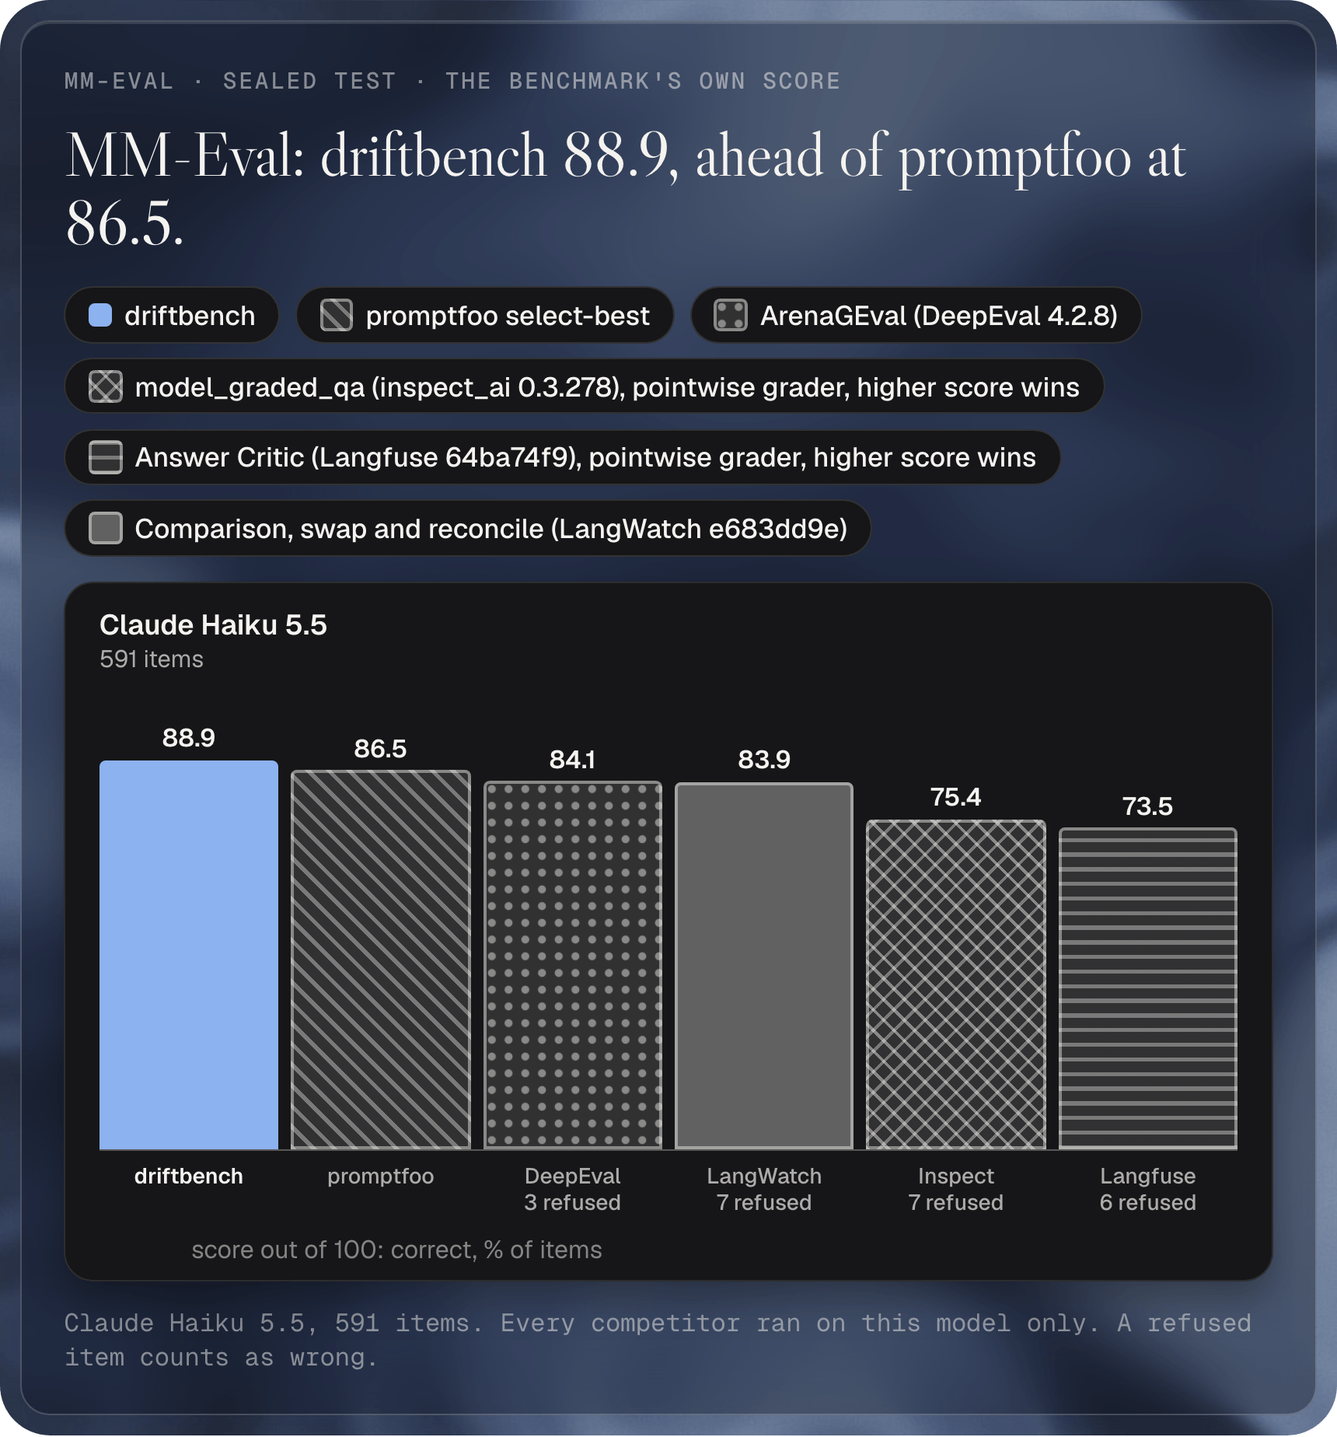
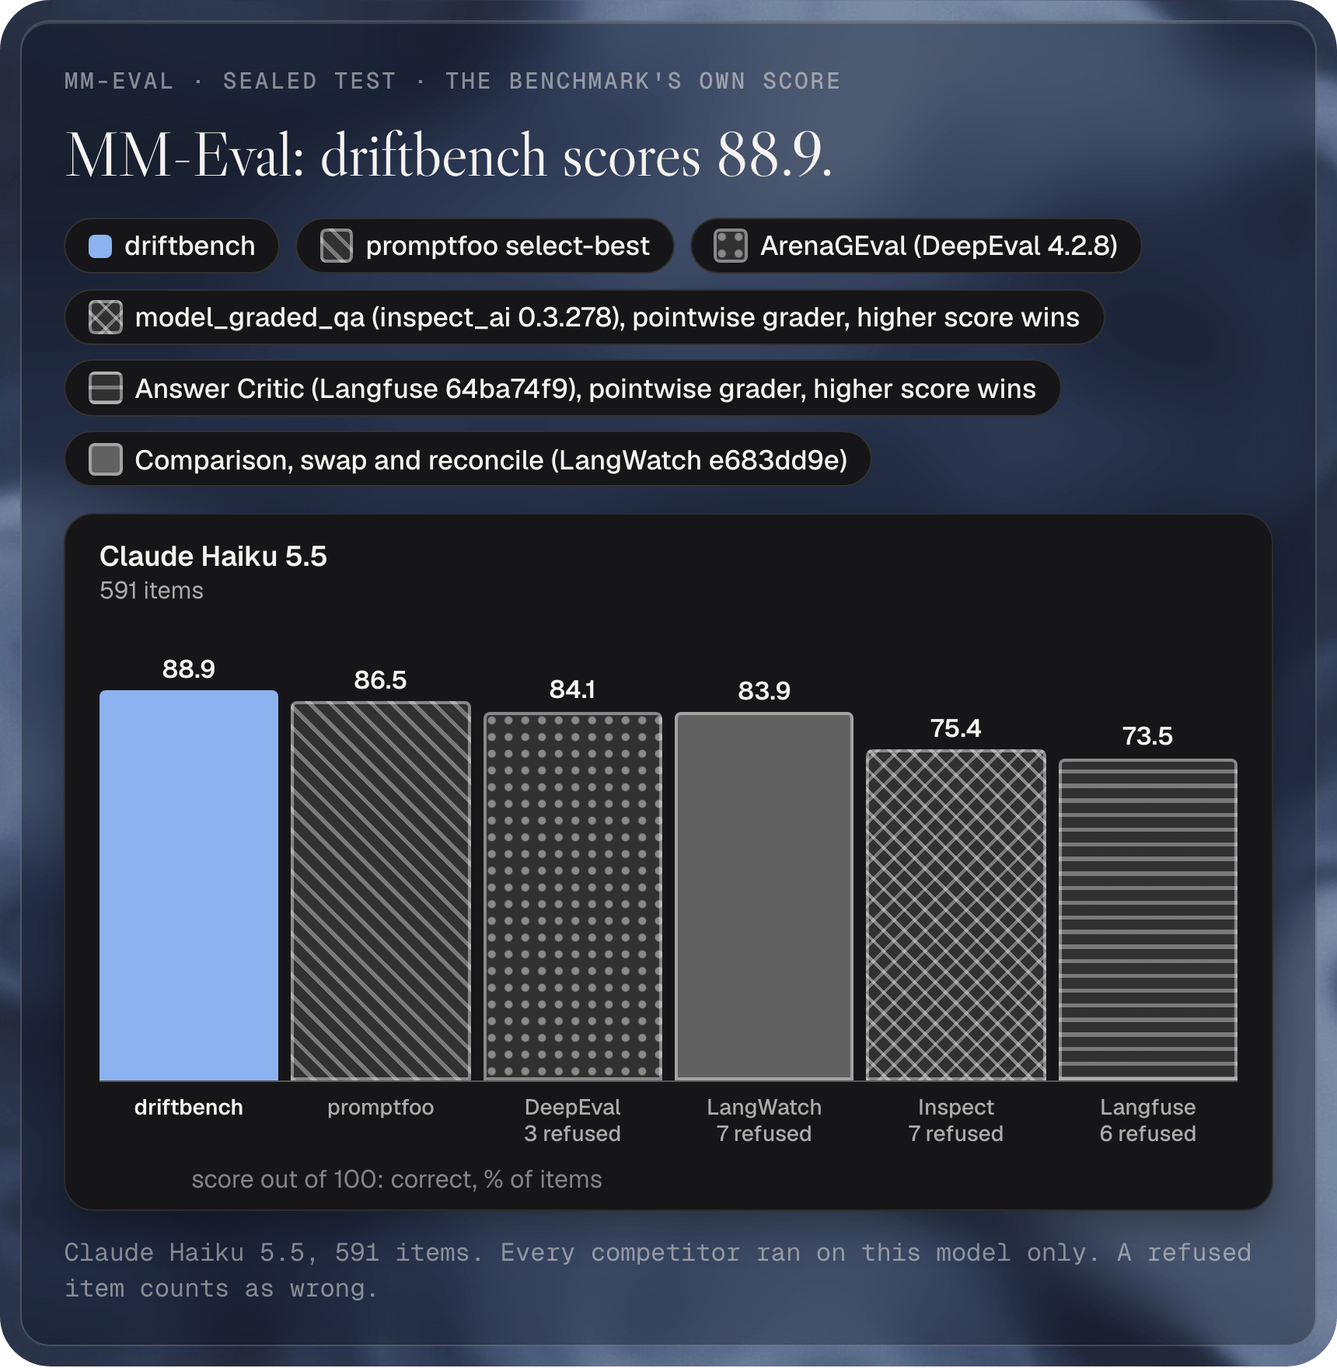
README: no tallies, plain benefit line per benchmark chart, caveats in footnotes; restore the hard-case render jobs
Benefit lines are generated from the chart bars. Chart titles state driftbench's own score. The Holm win and tie counts, the rows ahead and behind table and the tally titles are gone; per-comparison facts stay. render.mjs has the hard-deepeval, hard-promptfoo and hard-langfuse jobs again, each rendered.

diff --git a/.github/readme/src/chart-data.js b/.github/readme/src/chart-data.js
@@ -3,7 +3,7 @@ window.CHART_DATA = {
   "judge-leads": {
     "kind": "pairs",
     "kicker": "Judge accuracy · held-out cases · Claude Haiku 5.5 on both sides",
-    "title": "5 clear wins over the default judges.",
+    "title": "Cases correct of 72, driftbench against DeepEval's default.",
     "key": [
       "driftbench, shipped judge",
       "the other tool's default"
@@ -111,7 +111,7 @@ window.CHART_DATA = {
   "judge-cost": {
     "kind": "pairs",
     "kicker": "Judge cost · US dollars per 100 cases · Claude Haiku 5.5",
-    "title": "Cheaper on 4 of 5 rows.",
+    "title": "Cost per 100 judged cases.",
     "key": [
       "driftbench, shipped judge",
       "the other tool's default"
@@ -526,7 +526,7 @@ window.CHART_DATA = {
   "bench-judgebench": {
     "kind": "ranked",
     "kicker": "JudgeBench · sealed test · official pair score",
-    "title": "JudgeBench: driftbench 88.9, ahead of DeepEval at 86.3.",
+    "title": "JudgeBench: driftbench scores 88.9.",
     "key": [
       {
         "label": "driftbench",
@@ -602,7 +602,7 @@ window.CHART_DATA = {
   "bench-mm-eval": {
     "kind": "ranked",
     "kicker": "MM-Eval · sealed test · the benchmark's own score",
-    "title": "MM-Eval: driftbench 88.9, ahead of promptfoo at 86.5.",
+    "title": "MM-Eval: driftbench scores 88.9.",
     "key": [
       {
         "label": "driftbench",
@@ -682,7 +682,7 @@ window.CHART_DATA = {
   "bench-rubricbench": {
     "kind": "ranked",
     "kicker": "RubricBench · test split · both orders of every pair",
-    "title": "RubricBench: driftbench 82.7, ahead of DeepEval at 77.6.",
+    "title": "RubricBench: driftbench scores 82.7.",
     "key": [
       {
         "label": "driftbench",
@@ -760,7 +760,7 @@ window.CHART_DATA = {
   "bench-verify": {
     "kind": "ranked",
     "kicker": "LongJudgeBench verify · test split · is the final answer correct",
-    "title": "Verify: driftbench 74.2, behind Langfuse at 75.1.",
+    "title": "Verify: driftbench scores 74.2.",
     "key": [
       {
         "label": "driftbench",
@@ -836,7 +836,7 @@ window.CHART_DATA = {
   "bench-writing": {
     "kind": "ranked",
     "kicker": "LongJudgeBench writing preference · test split · both orders",
-    "title": "Writing: driftbench 67.6, ahead of DeepEval at 58.4.",
+    "title": "Writing: driftbench scores 67.6.",
     "key": [
       {
         "label": "driftbench",
@@ -1696,7 +1696,7 @@ window.CHART_DATA = {
   "hard-deepeval": {
     "kind": "columns",
     "kicker": "DeepEval hard cases · held-out · Claude Haiku 5.5 on both sides · bars labelled with cases correct",
-    "title": "DeepEval: ahead on 5, level on 4 of 9 tests.",
+    "title": "DeepEval: cases correct of 72.",
     "key": [
       "driftbench, shipped judge",
       "DeepEval default"
@@ -1863,7 +1863,7 @@ window.CHART_DATA = {
   "hard-promptfoo": {
     "kind": "columns",
     "kicker": "promptfoo hard cases · held-out · Claude Haiku 5.5 on both sides · bars labelled with cases correct",
-    "title": "promptfoo: equal or higher on 4 of 4 tests.",
+    "title": "promptfoo: cases correct of 72.",
     "key": [
       "driftbench, shipped judge",
       "promptfoo default"
@@ -1950,7 +1950,7 @@ window.CHART_DATA = {
   "hard-inspect": {
     "kind": "columns",
     "kicker": "Inspect hard cases · held-out · Claude Haiku 5.5 on both sides · bars labelled with cases correct",
-    "title": "Inspect: behind on 2, level on 2 of 4 tests.",
+    "title": "Inspect: cases correct of 60.",
     "key": [
       "driftbench, shipped judge",
       "Inspect default"

diff --git a/README.md b/README.md
@@ -199,7 +199,7 @@ Four ideas lead. Each one changes what you learn when a test fails, and what it 
 - **What it is.** A quick judge reads every answer first. When it is sure, it decides. When it is not, the answer goes to the expert that fits it: a fact check, a careful reasoning judge, or a panel of models.
 - **What others do.** promptfoo, DeepEval, LangWatch and Langfuse let you pick one judge model; our comparison found ensembles in their docs only in part (row 11). Inspect documents a [scorer cascade](https://inspect.aisi.org.uk/multiple-scorers.html) that stops at the first scorer that settles a sample.
 - **Why it matters.** You pay for careful reasoning only where an answer needs it.
-- **Impact.** On 1,212 sealed MM-Eval items, the first judge sent 48 to the panel. On those 48 the score rose from 51.0 to 85.4, and on the whole set from 89.49 to 91.54 ([mm-eval-sealed-test.json](docs/assets/data/mm-eval-sealed-test.json)). Against promptfoo with GPT-6 Luna, MoJ scored 85.0 against 84.0 on JudgeBench, 94.9 against 94.7 on MM-Eval and 65.2 against 57.0 on writing. It used 57, 21 and 10.3 costly reasoning calls per 100 pairs where promptfoo used 200: 3.5 to 19.4 times fewer. Two results are ties and the third is a win after a Holm correction; on writing, a rule that picks the longer reply scores 69.7 on the sealed pairs, above both ([RESULTS.md](research/moj/RESULTS.md), [report.json](research/moj/results/sealed/report.json)). MoJ runs today from that research harness, on the package's opt-in escalation API (`createEscalation`). [How we measured](docs/comparison/methods.md#mixture-of-judges)
+- **Impact.** MoJ scores at least as high as promptfoo on all three sealed sets, with 3.5 to 19.4 times fewer costly reasoning calls. With GPT-6 Luna it scored 85.0 against 84.0 on JudgeBench, 94.9 against 94.7 on MM-Eval and 65.2 against 57.0 on writing, using 57, 21 and 10.3 reasoning calls per 100 pairs where promptfoo used 200 ([RESULTS.md](research/moj/RESULTS.md), [report.json](research/moj/results/sealed/report.json)). On 1,212 sealed MM-Eval items, the first judge sent 48 to the panel; on those 48 the score rose from 51.0 to 85.4, and on the whole set from 89.49 to 91.54 ([mm-eval-sealed-test.json](docs/assets/data/mm-eval-sealed-test.json)). On writing, a rule that picks the longer reply scores 69.7 on the sealed pairs. MoJ runs today from the research harness, on the package's opt-in escalation API (`createEscalation`). [How we measured](docs/comparison/methods.md#mixture-of-judges)
 
 ### More that ships
 
@@ -752,57 +752,60 @@ A minimal complete adapter is the `functionAdapter` of [Evaluate your own agent]
 
 Every number comes from a result file in this repository. All scores are on one scale, 0 to 100.
 
-### Five public benchmarks, against every default judge
+### Public benchmarks
 
-One chart per public benchmark for judges, scores out of 100. In each chart driftbench stands beside promptfoo, DeepEval, Inspect, Langfuse and LangWatch, each with its default judge, on the same sealed items and the same model, Claude Haiku 5.5. That is the one model all of them were run on. The scores of every other model, with the charts that carry them, are in the detail of each benchmark: [JudgeBench](docs/comparison/benchmarks/index.md#judgebench), [MM-Eval](docs/comparison/benchmarks/index.md#mm-eval), [RubricBench](docs/comparison/benchmarks/index.md#rubricbench), [verify and writing](docs/comparison/benchmarks/index.md#longjudgebench). driftbench runs the pair ledger, an opt-in judge mode, and on verify its frozen verify cascade; neither is the shipped default. A refused item counts as wrong for every contestant.
+Five public benchmarks for judges, all on the same sealed items and the same model, Claude Haiku 5.5, with every tool running its default judge. Scores are out of 100. The other models and the charts that carry them are in the detail of each benchmark: [JudgeBench](docs/comparison/benchmarks/index.md#judgebench), [MM-Eval](docs/comparison/benchmarks/index.md#mm-eval), [RubricBench](docs/comparison/benchmarks/index.md#rubricbench), [verify and writing](docs/comparison/benchmarks/index.md#longjudgebench).
 
 <!-- readme-charts:start -->
-**JudgeBench**
+**JudgeBench.** driftbench picks the correct answer more often than DeepEval, LangWatch, promptfoo, Inspect and Langfuse on the same model: 88.9, against 86.3 for the next best, DeepEval.
 
 <a href="docs/assets/bench-judgebench-light.png">
   <picture>
     <source media="(prefers-color-scheme: dark)" srcset="docs/assets/bench-judgebench-dark.png">
-    <img alt="JudgeBench: driftbench 88.9, ahead of DeepEval at 86.3. Claude Haiku 5.5, 270 pairs, percent correct, highest to lowest: driftbench 88.9, DeepEval 86.3, LangWatch 83.7, promptfoo 83.0, Inspect 80.0, Langfuse 74.8." src="docs/assets/bench-judgebench-light.png" width="100%">
+    <img alt="JudgeBench: driftbench scores 88.9. Claude Haiku 5.5, 270 pairs, percent correct, highest to lowest: driftbench 88.9, DeepEval 86.3, LangWatch 83.7, promptfoo 83.0, Inspect 80.0, Langfuse 74.8." src="docs/assets/bench-judgebench-light.png" width="100%">
   </picture>
 </a>
+<p align="center"><sub>Claude Haiku 5.5, 270 pairs. Each judge runs its default settings; driftbench runs its opt-in pair ledger. A refused item counts as wrong.</sub></p>
 
-**MM-Eval**
+**MM-Eval.** driftbench picks the better answer more often than promptfoo, DeepEval, LangWatch, Inspect and Langfuse on the same model: 88.9, against 86.5 for the next best, promptfoo.
 
 <a href="docs/assets/bench-mm-eval-light.png">
   <picture>
     <source media="(prefers-color-scheme: dark)" srcset="docs/assets/bench-mm-eval-dark.png">
-    <img alt="MM-Eval: driftbench 88.9, ahead of promptfoo at 86.5. Claude Haiku 5.5, 591 items, percent correct, highest to lowest: driftbench 88.9, promptfoo 86.5, DeepEval 84.1, LangWatch 83.9, Inspect 75.4, Langfuse 73.5." src="docs/assets/bench-mm-eval-light.png" width="100%">
+    <img alt="MM-Eval: driftbench scores 88.9. Claude Haiku 5.5, 591 items, percent correct, highest to lowest: driftbench 88.9, promptfoo 86.5, DeepEval 84.1, LangWatch 83.9, Inspect 75.4, Langfuse 73.5." src="docs/assets/bench-mm-eval-light.png" width="100%">
   </picture>
 </a>
+<p align="center"><sub>Claude Haiku 5.5, 591 items. Each judge runs its default settings; driftbench runs its opt-in pair ledger. A refused item counts as wrong (refused: DeepEval 3, LangWatch 7, Inspect 7, Langfuse 6).</sub></p>
 
-**RubricBench**
+**RubricBench.** driftbench picks the reply that meets the grading criteria more often than DeepEval, promptfoo, LangWatch, Inspect and Langfuse on the same model: 82.7, against 77.6 for the next best, DeepEval.
 
 <a href="docs/assets/bench-rubricbench-light.png">
   <picture>
     <source media="(prefers-color-scheme: dark)" srcset="docs/assets/bench-rubricbench-dark.png">
-    <img alt="RubricBench: driftbench 82.7, ahead of DeepEval at 77.6. Claude Haiku 5.5, 1,580 games, percent correct, highest to lowest: driftbench 82.7, DeepEval 77.6, promptfoo 75.6, LangWatch 74.9, Inspect 26.6, Langfuse 25.1." src="docs/assets/bench-rubricbench-light.png" width="100%">
+    <img alt="RubricBench: driftbench scores 82.7. Claude Haiku 5.5, 1,580 games, percent correct, highest to lowest: driftbench 82.7, DeepEval 77.6, promptfoo 75.6, LangWatch 74.9, Inspect 26.6, Langfuse 25.1." src="docs/assets/bench-rubricbench-light.png" width="100%">
   </picture>
 </a>
+<p align="center"><sub>Claude Haiku 5.5, 1,580 games. Each judge runs its default settings; driftbench runs its opt-in pair ledger. A refused item counts as wrong (refused: DeepEval 1, Langfuse 1).</sub></p>
 
-**Verify**
+**Verify.** driftbench decides whether the final answer is correct 74.2 times in 100, within 0.9 points of the top score (Langfuse, 75.1) and above Inspect (73.3), LangWatch (73.3), promptfoo (71.9) and DeepEval (58.8).
 
 <a href="docs/assets/bench-verify-light.png">
   <picture>
     <source media="(prefers-color-scheme: dark)" srcset="docs/assets/bench-verify-dark.png">
-    <img alt="Verify: driftbench 74.2, behind Langfuse at 75.1. Claude Haiku 5.5, 221 items, percent correct, highest to lowest: Langfuse 75.1, driftbench 74.2, Inspect 73.3, LangWatch 73.3, promptfoo 71.9, DeepEval 58.8." src="docs/assets/bench-verify-light.png" width="100%">
+    <img alt="Verify: driftbench scores 74.2. Claude Haiku 5.5, 221 items, percent correct, highest to lowest: Langfuse 75.1, driftbench 74.2, Inspect 73.3, LangWatch 73.3, promptfoo 71.9, DeepEval 58.8." src="docs/assets/bench-verify-light.png" width="100%">
   </picture>
 </a>
+<p align="center"><sub>Claude Haiku 5.5, 221 items. Each judge runs its default settings; driftbench runs its opt-in frozen verify cascade. A refused item counts as wrong.</sub></p>
 
-**Writing**
-
-Footnote: the driftbench bar uses its opt-in reader-first setting (long-structured). Its 67.6 equals the score of a rule that always picks the longer reply; the default setting scores 61.3.
+**Writing.** driftbench picks the reply readers prefer more often than DeepEval, promptfoo, LangWatch, Langfuse and Inspect on the same model: 67.6, against 58.4 for the next best, DeepEval.
 
 <a href="docs/assets/bench-writing-light.png">
   <picture>
     <source media="(prefers-color-scheme: dark)" srcset="docs/assets/bench-writing-dark.png">
-    <img alt="Writing: driftbench 67.6, ahead of DeepEval at 58.4. Claude Haiku 5.5, 346 games, percent correct, highest to lowest: driftbench 67.6, DeepEval 58.4, promptfoo 56.9, LangWatch 52.6, Langfuse 14.5, Inspect 11.6. The driftbench bar uses its opt-in reader-first setting." src="docs/assets/bench-writing-light.png" width="100%">
+    <img alt="Writing: driftbench scores 67.6. Claude Haiku 5.5, 346 games, percent correct, highest to lowest: driftbench 67.6, DeepEval 58.4, promptfoo 56.9, LangWatch 52.6, Langfuse 14.5, Inspect 11.6." src="docs/assets/bench-writing-light.png" width="100%">
   </picture>
 </a>
+<p align="center"><sub>Claude Haiku 5.5, 346 games. Each judge runs its default settings; driftbench runs its opt-in pair ledger. A refused item counts as wrong. The driftbench bar uses its opt-in reader-first setting (long-structured), which scores the same as a rule that always picks the longer reply, 67.6; the default setting scores 61.3.</sub></p>
 
 <!-- readme-charts:end -->
 
@@ -818,9 +821,11 @@ Footnote: the driftbench bar uses its opt-in reader-first setting (long-structur
 </a>
 <p align="center"><sub><a href="docs/comparison/methods.md#mm-eval-a-panel-only-when-unsure">How we measured</a></sub></p>
 
-MM-Eval is a public benchmark for judges. On 1,212 sealed items, sending only the unsure cases to a panel lifts the score from 89.49 to 91.54: a gain of 2.05 points, 95% interval 1.02 to 3.29. Only 48 items went to the panel, and cost per 100 items rose from $0.2471 to $0.2646.
+A panel that sees only the unsure cases lifts the MM-Eval score from 89.49 to 91.54 on 1,212 sealed items, a gain of 2.05 points with a 95% interval of 1.02 to 3.29.
 
-### Five clear wins for the judge
+<sub>MM-Eval is a public benchmark for judges. Only 48 items went to the panel, and cost per 100 items rose from $0.2471 to $0.2646.</sub>
+
+### The shipped judge against DeepEval
 
 <a href=".github/readme/judge-leads-light.png">
   <picture>
@@ -830,11 +835,15 @@ MM-Eval is a public benchmark for judges. On 1,212 sealed items, sending only th
 </a>
 <p align="center"><sub><a href="docs/comparison/methods.md#the-judge-on-hard-cases">How we measured</a></sub></p>
 
-The judge that ships today, against DeepEval 4.2.8's default metrics, same model on both sides. On these five tests the lead is beyond the margin of error.
+On hallucination, faithfulness, turn relevancy, completeness and role adherence, the judge that ships today scores higher than DeepEval 4.2.8's default metric, by more than the 95% margin.
+
+<sub>Held-out cases, same model on both sides.</sub>
 
 ### Hard cases, framework by framework
 
-The shipped judge against each framework's own default judge, on held-out hard cases, with Claude Haiku 5.5 on both sides. Bars show the share of cases judged correctly, out of 100.
+The shipped judge against each framework's own default judge. Bars show the cases judged correctly.
+
+<sub>Held-out hard cases, Claude Haiku 5.5 on both sides.</sub>
 
 <a href=".github/readme/hard-deepeval-light.png">
   <picture>
@@ -860,11 +869,11 @@ The shipped judge against each framework's own default judge, on held-out hard c
 </a>
 <p align="center"><sub><a href="docs/comparison/methods.md#the-judge-on-hard-cases">How we measured</a></sub></p>
 
-Every result, test by test and tool by tool, including the tests where another framework is ahead today: [how we measured](docs/comparison/methods.md) and the [per-tool pages](docs/comparison/index.md).
+Every result, test by test and tool by tool: [how we measured](docs/comparison/methods.md) and the [per-tool pages](docs/comparison/index.md).
 
-### The numbers and the tests
+### The numbers
 
-The table holds the numbers of the five charts. DeepEval, Inspect, Langfuse and LangWatch run their default judge; driftbench and promptfoo are the recorded cells. Paired exact tests, driftbench against each tool; a win or loss needs a Holm-corrected p below 0.05. Inspect and Langfuse have no pairwise grader, so they score each reply alone and the higher score wins.
+The table holds the numbers of the five charts. DeepEval, Inspect, Langfuse and LangWatch run their default judge; driftbench and promptfoo are the recorded cells. Each comparison is a paired exact test of driftbench against one tool, on the same items.
 
 <!-- readme-table:start -->
 | Benchmark | driftbench | promptfoo | DeepEval | Inspect | Langfuse | LangWatch |
@@ -880,15 +889,13 @@ Footnote: the driftbench figure for writing uses its opt-in reader-first setting
 
 Length-controlled accuracy on writing (a longer-wins rule scores 50): driftbench 59.3, DeepEval 58.3, promptfoo 55.6, LangWatch 51.5, Langfuse 15.8, Inspect 11.8 (source: `examples/writing-heldout/README.md` on `feat/writing-lead`).
 
-- Holm-corrected over the 25 comparisons (driftbench against promptfoo and each of the four tools on each benchmark): 16 significant wins, 9 ties, no losses.
-- The 9 ties are JudgeBench against promptfoo (raw p 0.0139), LangWatch (raw p 0.0201) and DeepEval (raw p 0.21); verify against promptfoo, Inspect, Langfuse and LangWatch; writing against promptfoo and DeepEval. Holm p values are in the per benchmark tables.
-- Without the correction, 18 of the 25 have raw p below 0.05, so JudgeBench against promptfoo and against LangWatch would count as wins.
-- No comparison is a significant loss. Langfuse scores 0.9 points higher on verify (13 wins against 15 losses, raw p 0.85). On writing, the reader-first variant picks the longer reply on all 173 pairs, so its 67.6 equals a longer-wins rule and is not a judge result.
+- Verify: Langfuse scores 0.9 points above driftbench. On the paired items driftbench alone is right on 13 and Langfuse alone on 15 (raw p 0.85).
+- Writing: the reader-first setting picks the longer reply on all 173 pairs, so its 67.6 equals a longer-reply rule.
 - The verify column here is Claude Haiku 5.5 (driftbench 74.2, promptfoo 71.9). The 74.7 and 72.4 in [the public benchmark table](docs/comparison/methods.md) are GPT-6 Luna, a different model.
 - A few items stay undecided after three passes because the model refused them. They count as wrong for the contestant. Undecided items: MM-Eval 3 to 7 per peer, RubricBench 1 each for DeepEval and Langfuse.
 - Inspect and Langfuse scores on RubricBench and writing are low because a pointwise grader returns equal scores for many pairs, and a tie counts as wrong.
 
-Per benchmark tables with wins, losses, p values and spend: [JudgeBench](docs/comparison/benchmarks/judgebench-all-peers.md), [MM-Eval](docs/comparison/benchmarks/mmeval-all-peers.md), [RubricBench](docs/comparison/benchmarks/rubricbench-all-peers.md), [verify](docs/comparison/benchmarks/verify-all-peers.md), [writing](docs/comparison/benchmarks/writing-all-peers.md). The sealed items are not committed. To rebuild them:
+Per benchmark tables with paired counts, p values and spend: [JudgeBench](docs/comparison/benchmarks/judgebench-all-peers.md), [MM-Eval](docs/comparison/benchmarks/mmeval-all-peers.md), [RubricBench](docs/comparison/benchmarks/rubricbench-all-peers.md), [verify](docs/comparison/benchmarks/verify-all-peers.md), [writing](docs/comparison/benchmarks/writing-all-peers.md). The sealed items are not committed. To rebuild them:
 
 1. Run the RubricBench loader, `node --experimental-strip-types examples/all-peers-public/rubricbench-loader/load.mts <out.json>`. It downloads the RubricBench rows from Hugging Face (cached on disk), keeps the 790 sealed test ids listed in `test-ids.json` and writes them as JSON.
 2. Run `python examples/all-peers-public/export.py --items-only --rubricbench-items <out.json>`. It rebuilds all five item files and checks each against the committed sha256.
@@ -904,19 +911,19 @@ Per benchmark tables with wins, losses, p values and spend: [JudgeBench](docs/co
 </a>
 <p align="center"><sub><a href="docs/comparison/methods.md#what-a-judgement-costs">How we measured</a></sub></p>
 
-On Inspect's grader panel the two judges score the same, 59 of 60, and driftbench spends $0.076 where the default spends $0.138.
+On Inspect's grader panel, driftbench spends $0.076 per 100 judged cases where the default spends $0.138, at the same score, 59 of 60.
 
 ## How it compares
 
-The capability matrix is [above](#what-makes-it-different). Tool by tool, row by row:
+The capability matrix is [above](#what-makes-it-different). One page per tool, row by row:
 
-| Tool | Rows ahead | Equal | Behind | In progress | Not comparable | Page |
-|---|---|---|---|---|---|---|
-| promptfoo | 22 | 5 | 1 | 1 | 7 | [promptfoo](docs/comparison/promptfoo.md) |
-| Inspect | 20 | 0 | 0 | 0 | 3 | [Inspect](docs/comparison/inspect.md) |
-| DeepEval | 11 | 1 | 0 | 0 | 2 | [DeepEval](docs/comparison/deepeval.md) |
-| Langfuse | 10 | 2 | 0 | 0 | 3 | [Langfuse](docs/comparison/langfuse.md) |
-| LangWatch | 8 | 5 | 0 | 1 | 2 | [LangWatch](docs/comparison/langwatch.md) |
+| Tool | Page |
+|---|---|
+| promptfoo | [promptfoo](docs/comparison/promptfoo.md) |
+| Inspect | [Inspect](docs/comparison/inspect.md) |
+| DeepEval | [DeepEval](docs/comparison/deepeval.md) |
+| Langfuse | [Langfuse](docs/comparison/langfuse.md) |
+| LangWatch | [LangWatch](docs/comparison/langwatch.md) |
 
 What driftbench does not do: retrieval metrics for RAG, promptfoo's catalogue of red-team plugins, a hosted platform with a team UI. → [how each row was checked](docs/comparison/methods.md#the-tool-by-tool-tallies)
 
